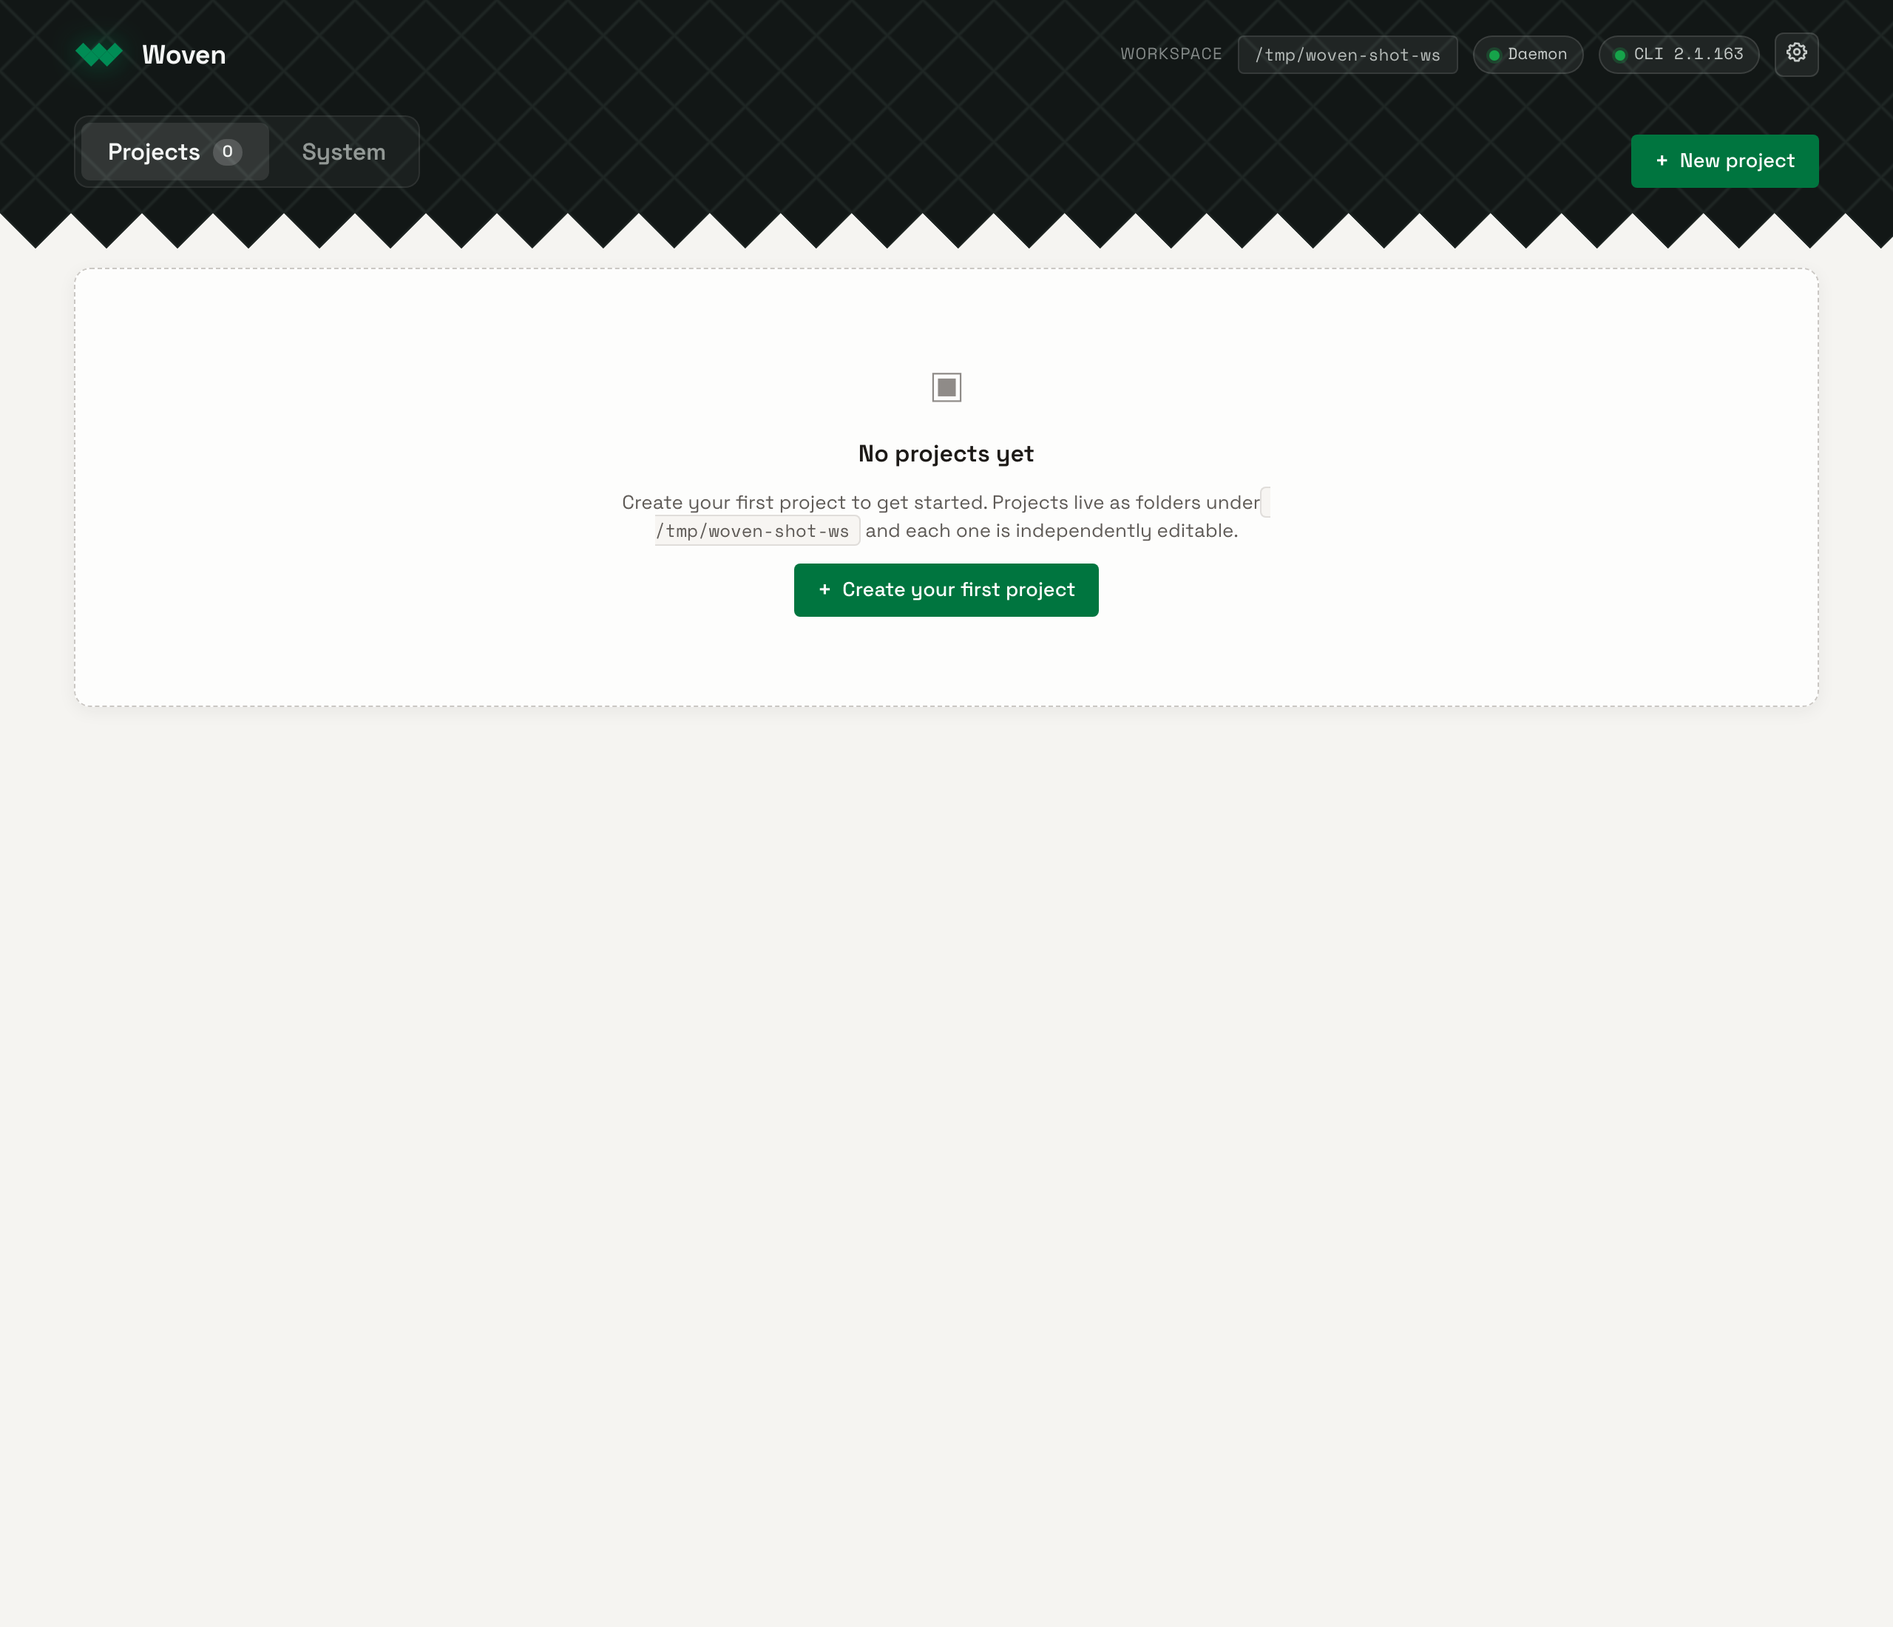
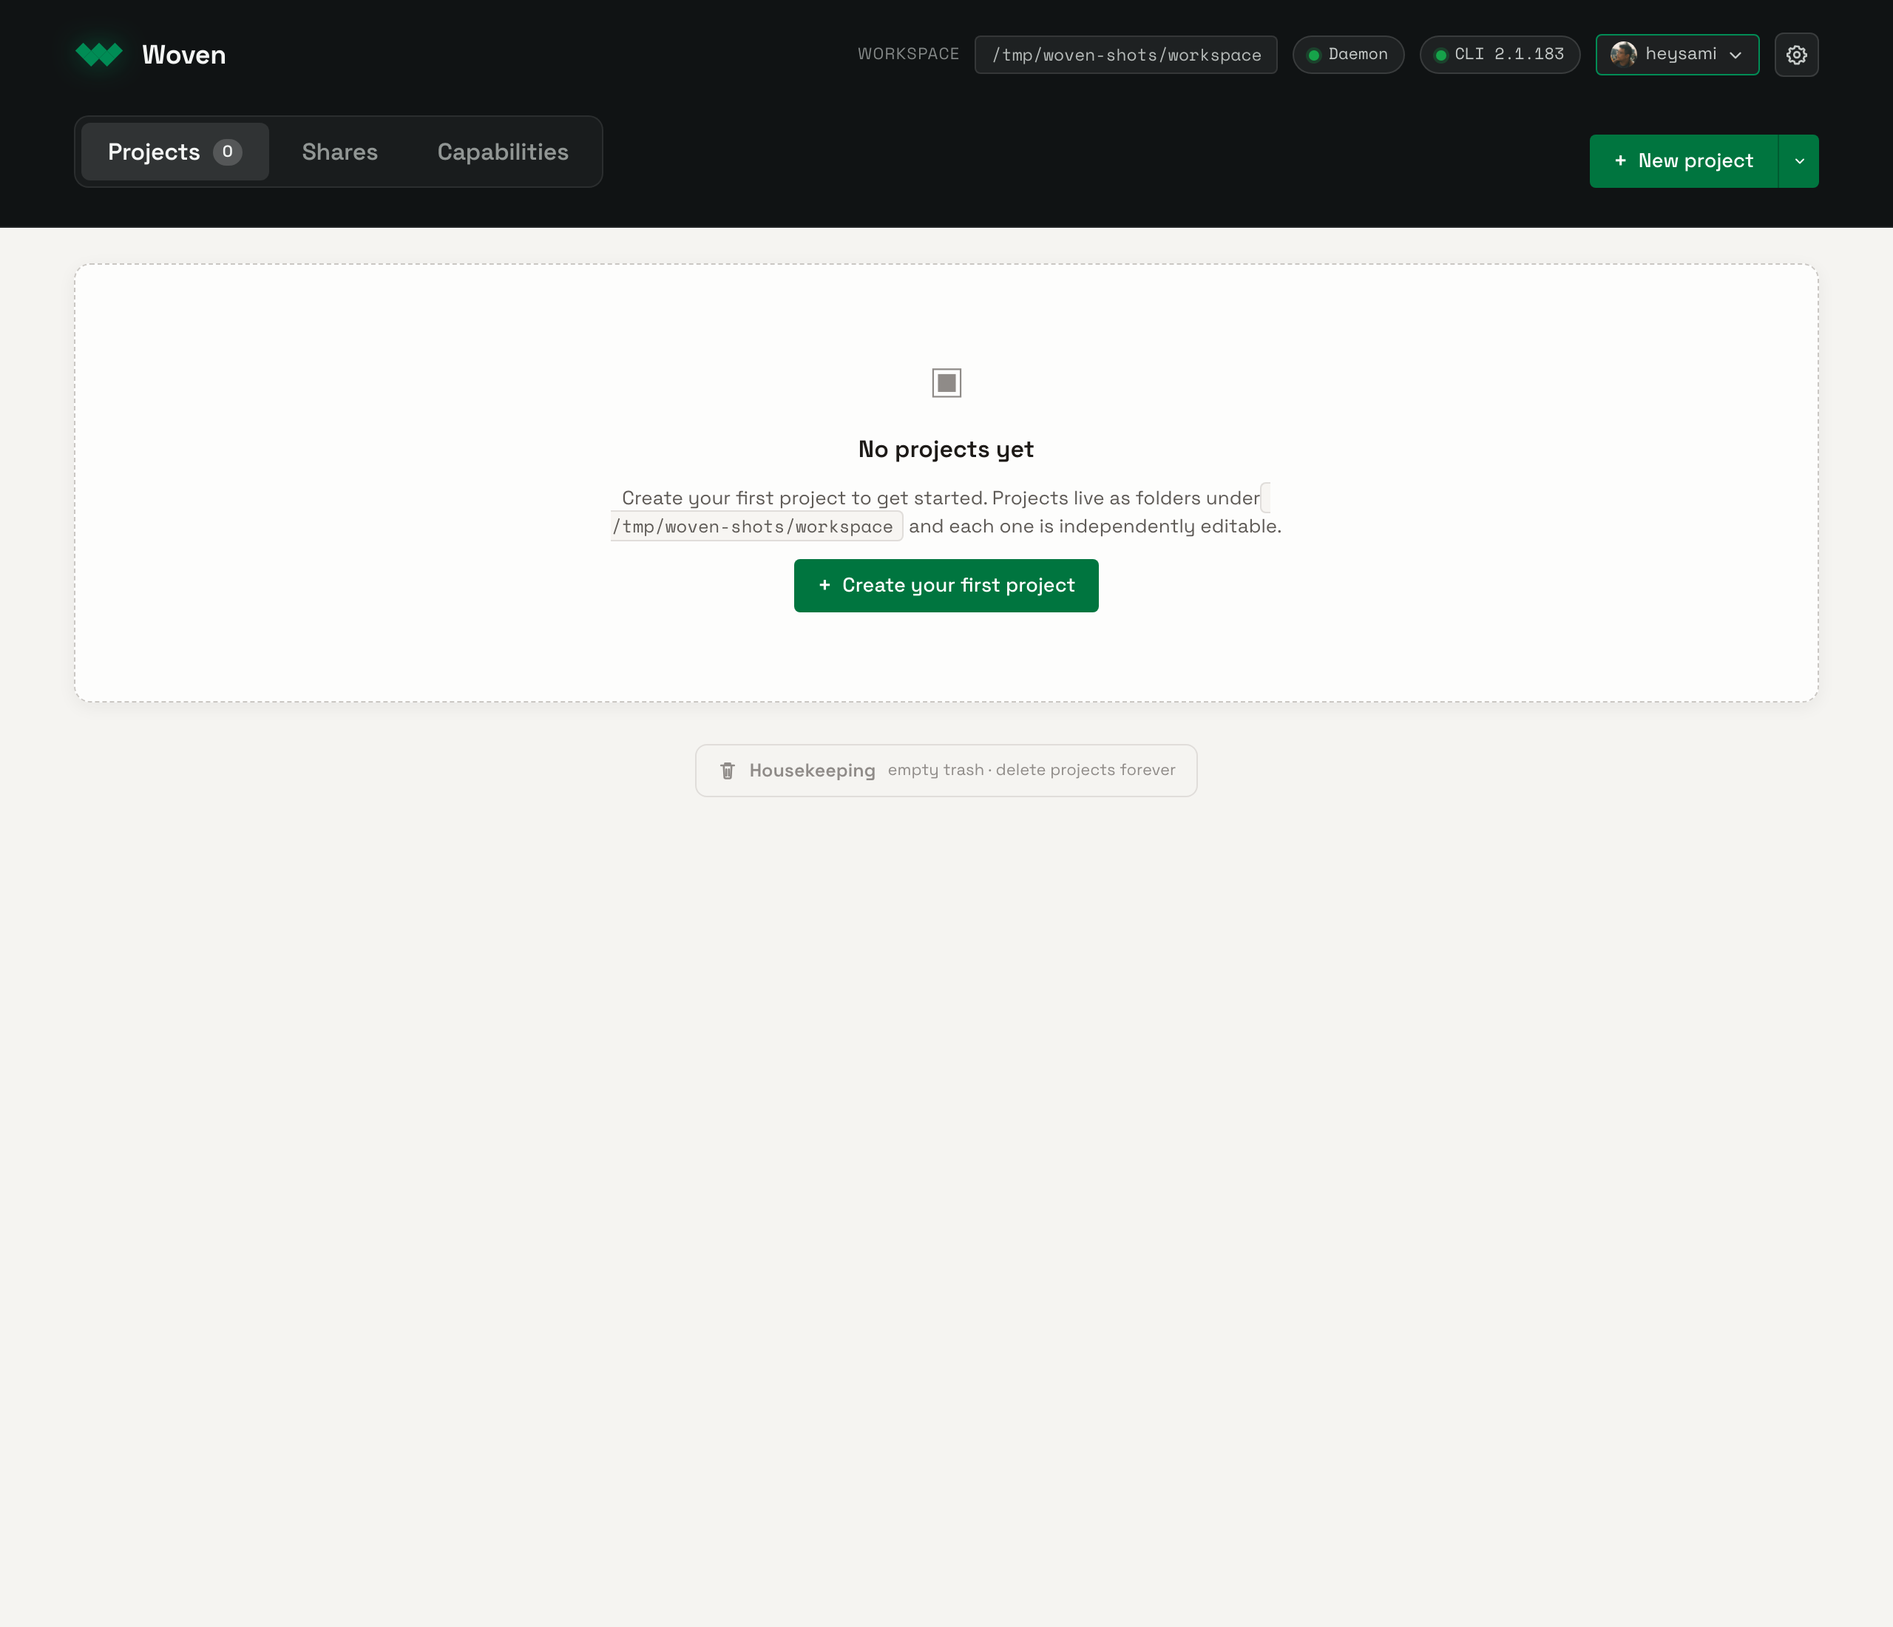
README: refresh onboarding + new-project docs for the 5-step setup wizard
Rewrote the onboarding sections to match the current UI: a single 5-step
pip wizard (Agent model, Asset keys, Orchestrators, Local skills, Done),
the CLI-required vs API-key-only distinction, the new Orchestrators step,
and the new-project modal (export folder + template design-system toggle).
Recaptured all onboarding/landing/new-project screenshots.

diff --git a/README.md b/README.md
@@ -21,12 +21,14 @@ This README walks through your first run end-to-end, from install to the Ghibli-
 1. [What you need before starting](#1-what-you-need-before-starting)
 2. [Install](#2-install)
 3. [Start the editor](#3-start-the-editor)
-4. [First-run onboarding: connect a model](#4-first-run-onboarding-connect-a-model)
-5. [Optional · add asset-provider keys (image · video · SVG)](#5-optional--add-asset-provider-keys-image--video--svg)
-6. [Required · install local skills (rembg)](#6-required--install-local-skills-rembg)
-7. [Create your first project](#7-create-your-first-project)
-8. [Open the workflow and send your first prompt](#8-open-the-workflow-and-send-your-first-prompt)
-9. [The final prototype](#9-the-final-prototype)
+4. [First-run onboarding: the 5-step setup wizard](#4-first-run-onboarding-the-5-step-setup-wizard)
+5. [Step 1 · connect a model](#5-step-1--connect-a-model)
+6. [Step 2 · add asset-provider keys (image · video · SVG)](#6-step-2--add-asset-provider-keys-image--video--svg)
+7. [Step 3 · review orchestrators](#7-step-3--review-orchestrators)
+8. [Step 4 · install local skills (rembg)](#8-step-4--install-local-skills-rembg)
+9. [Create your first project](#9-create-your-first-project)
+10. [Open the workflow and send your first prompt](#10-open-the-workflow-and-send-your-first-prompt)
+11. [The final prototype](#11-the-final-prototype)
 
 ---
 
@@ -38,7 +40,7 @@ You only need four things on your machine:
 | ---------------- | ---------------------------------------------------------------------------- | ------------------------------------- |
 | **Python 3.10+** | The editor daemon (`serve.py`) is pure Python with stdlib only.              | `python3 --version`                   |
 | **A modern browser** | Chrome, Edge, Safari, or Firefox (anything from the last ~2 years).      | (no command, just open it)            |
-| **One of:** Claude Code CLI · Codex CLI · an Anthropic / OpenAI API key | The editor needs at least one way to reach a text model so the agent can run workflows. You'll wire this up in [Step 4](#4-first-run-onboarding-connect-a-model). | `claude --version` / `codex --version` |
+| **One of:** Claude Code CLI · Codex CLI · an Anthropic / OpenAI API key | The editor needs at least one way to reach a text model so the agent can run workflows. **The CLI is the required path for agentic workflows** (a pasted API key only powers single-shot "simple prompt" nodes). You'll wire this up in [Step 1](#5-step-1--connect-a-model). | `claude --version` / `codex --version` |
 | **`rembg`**      | Background-removal step in the `raster-foreground` asset pipeline (characters / mascots / isolated subjects). One-click install from the onboarding card, or `pip3 install --user rembg`. First install pulls ~170 MB of model weights. | `python3 -c "import rembg; print(rembg.__version__)"` |
 
 You do **not** need Node, npm, Docker, or a build step. The editor ships as static HTML + a single Python file.
@@ -64,7 +66,7 @@ claude login    # (if you installed Claude Code)
 codex login     # (if you installed Codex)
 ```
 
-If you'd rather paste an API key instead of installing a CLI, skip the `npm install` step; you'll paste the key in the onboarding UI in [Step 4](#4-first-run-onboarding-connect-a-model).
+If you'd rather paste an API key instead of installing a CLI, skip the `npm install` step; you'll paste the key in the onboarding UI in [Step 1](#5-step-1--connect-a-model). Note that a key alone runs **simple prompt** nodes only - agentic workflows (node runs, chat, orchestrators) still need a CLI.
 
 ---
 
@@ -90,31 +92,45 @@ TH_WORKSPACE_DIR="$HOME/my-prototypes" python3 editor/serve.py
 
 ---
 
-## 4. First-run onboarding: connect a model
+## 4. First-run onboarding: the 5-step setup wizard
 
-On the very first launch, the **Projects** page shows a setup card. The top-right pill reads **NO MODEL CONFIGURED** in red. That's your cue that nothing will run until you wire up one connection.
+On the very first launch, the **Projects** page shows a setup card. The top-right pill reads **No model configured** in red - your cue that nothing will run until you wire up a connection. While anything required is still missing, the **+ New project** button stays disabled.
 
-![Onboarding · Step 1 · required agent model](docs/screenshots/01-onboarding-step1.png)
+The card is a single wizard with five numbered pips across the top:
 
-The card has two paths, both equivalent for the agent:
+**1 Agent model · 2 Asset keys · 3 Orchestrators · 4 Local skills · 5 Done**
 
-### 4a · Use a CLI
-
-Click **Install a CLI** to open the install-options dialog. The editor lists every supported binary with its install + login commands and live-detects whether each one is on your `PATH`. Once you've installed and signed in, click **I've installed it · refresh**. The dot flips to green and you're done.
-
-![Onboarding · Step 1 · CLI picker](docs/screenshots/02-onboarding-cli-picker.png)
-
-### 4b · Use an API key
-
-Click **Paste an API key** to drop in an Anthropic or OpenAI key. The key is stored locally at `~/.test-harness/media-config.json` (file mode `0600`, never sent anywhere except the provider's own API).
-
-Either path clears the **NO MODEL CONFIGURED** pill the instant it succeeds.
+Click any pip to jump to that step, or use **← Back / Next →** at the bottom. Only **Step 1 (a CLI)** and **Step 4 (rembg)** are required gates; Steps 2 and 3 are optional and never block. The next five sections walk through each step.
 
 ---
 
-## 5. Optional · add asset-provider keys (image · video · SVG)
+## 5. Step 1 · connect a model
 
-Step 1 only covers the **agent's text model**. To unlock image generation, video, vector SVG, audio, etc., add the relevant provider keys in **Step 2** of the onboarding card:
+![Onboarding · Step 1 · agent model](docs/screenshots/01-onboarding-step1.png)
+
+Step 1 wires up the model the agent runs on. There are two paths, and they are **not** equivalent:
+
+### 5a · Install a CLI (required for agents)
+
+A **Claude Code or Codex CLI on your `PATH` is the required backend.** The agent loop, file tools, and context compaction all live in the CLI harness, so node runs, chat, and orchestrators only work once a CLI is connected.
+
+Click **Install a CLI** to open the **Install a model CLI** popup. It lists both supported binaries with copy-paste install + login commands:
+
+![Onboarding · Step 1 · install-a-CLI popup](docs/screenshots/02-onboarding-cli-picker.png)
+
+Run the commands, then click **I've installed it · refresh** (or **I've already set one up · refresh** on the step itself). The status dot flips to green.
+
+### 5b · Paste an API key (simple prompts only)
+
+Click **Paste an API key** to drop in an Anthropic or OpenAI key via Settings. The key is stored locally at `~/.test-harness/media-config.json` (file mode `0600`, never sent anywhere except the provider's own API).
+
+A key on its own runs **single-shot "simple prompt" nodes** only - it does **not** enable agentic workflows. If you finish onboarding on a key alone, the top-right pill turns amber and reads **Agents disabled - no CLI** as a standing nudge to install one.
+
+---
+
+## 6. Step 2 · add asset-provider keys (image · video · SVG)
+
+Step 1 only covers the **agent's text model**. To unlock image generation, video, vector SVG, audio, etc., add the relevant provider keys in **Step 2**:
 
 ![Onboarding · Step 2 · asset providers](docs/screenshots/03-onboarding-asset-providers.png)
 
@@ -131,11 +147,21 @@ These are **optional**. Projects can still be created without them; you just won
 
 ---
 
-## 6. Required · install local skills (rembg)
+## 7. Step 3 · review orchestrators
 
-The wizard's **Step 3 · Local skills** lists Python packages the daemon will install into your user site (`pip install --user`). **`rembg` is the one required entry**: it's the background-removal step in the `raster-foreground` asset pipeline (every character, mascot, or isolated subject runs through it on the way to the canvas). Skip it and foreground asset generation falls over at the cutout stage.
+**Step 3** is a new, optional review step. Orchestrators dispatch whole families of subagents for richer artefacts (photography, illustration, simulations, 3D scenes, motion studios, and so on). Each row has a toggle, so you can turn off any family you don't want auto-dispatched - you can still invoke them by name later.
 
-![Onboarding · Step 3 · Local skills (rembg)](docs/screenshots/03b-onboarding-local-skills.png)
+![Onboarding · Step 3 · orchestrators](docs/screenshots/03c-onboarding-orchestrators.png)
+
+Rows whose pipeline depends on a key you haven't set in Step 2 are shown as **limited** with a short note about what's missing. Nothing here blocks project creation; if in doubt, leave the defaults and click **Next →**.
+
+---
+
+## 8. Step 4 · install local skills (rembg)
+
+The wizard's **Step 4 · Local skills** lists Python packages the daemon will install into your user site (`pip install --user`). **`rembg` is the one required entry**: it's the background-removal step in the `raster-foreground` asset pipeline (every character, mascot, or isolated subject runs through it on the way to the canvas). Skip it and foreground asset generation falls over at the cutout stage.
+
+![Onboarding · Step 4 · Local skills (rembg)](docs/screenshots/03b-onboarding-local-skills.png)
 
 Click **Install rembg** and give it a minute. First install pulls ~170 MB of ONNX model weights.
 
@@ -147,23 +173,33 @@ pip3 install --user rembg
 
 Optional packages (for `particle-gl`, `3d`, etc.) can wait. Install them from the gear icon → Settings when the matching pipeline first asks for them.
 
+Once the required steps are satisfied, **Step 5 · Done** confirms you're set (**"All set!"** when a CLI is connected, or **"Continue without agents"** if you finished on a key alone). Dismiss the card and the **+ New project** button lights up.
+
 ---
 
-## 7. Create your first project
+## 9. Create your first project
 
-Once a model is configured, the top-right warning chip disappears, the daemon + CLI chips both go green, and the **+ New project** button lights up. The header now carries two tabs - **Projects** (your gallery) and **System** (a bundled reference for the orchestrators, skills, subagents, and node kinds the editor ships with) - reachable from anywhere on the landing.
+Once a model is configured and rembg is installed, the top-right warning pill disappears, the daemon + CLI chips both go green, and the **+ New project** button lights up. The header carries tabs for **Projects** (your gallery), **Shares**, and **Capabilities** (a bundled reference for the orchestrators, skills, subagents, and node kinds the editor ships with), reachable from anywhere on the landing.
 
 ![Projects landing · model configured, + New project enabled](docs/screenshots/04-projects-landing.png)
 
-Click **+ New project** (or **+ Create your first project** in the empty state). A single-field modal opens:
+Click **+ New project** (or **+ Create your first project** in the empty state - the caret next to it also offers **From GitHub…** to clone an existing repo). The new-project modal opens:
 
-![New project modal · name only](docs/screenshots/05-new-project-wizard.png)
+![New project modal](docs/screenshots/05-new-project-wizard.png)
 
-Type a folder-safe id (alphanumeric + `.` `_` `-`) and click **+ Create**. That's it - no scope picker, no multi-step wizard. The earlier "Blank / Quick designs / Design system / PRD only / Full guided / Custom" branching was removed; every fresh project lands on a clean workflow canvas and you tell the agent what you want from chat. Need one of the old guided runs? Just ask the agent in plain English on the next screen ("brainstorm three design directions", "write a PRD first", "do the full guided flow", …) and the orchestrator skill picks the right stages.
+It has three things on it:
+
+- **Project name** - type a folder-safe id (alphanumeric + `.` `_` `-`); the modal echoes the slug it will use.
+- **Export folder** (optional) - where per-asset Export (the ⤓ on a selected node) drops bundles. On macOS a **Pick…** button opens Finder; you can also change this later from the **Exports** button in the workflow toolbar.
+- **Start from the template design system** (toggle, off by default) - seed a tokenized component library you can recolour, round, and retype.
+
+With the toggle **off**, click **+ Create** and you land straight on a clean workflow canvas - no scope picker, no multi-step wizard. The earlier "Blank / Quick designs / Design system / PRD only / Full guided / Custom" branching was removed; every fresh project starts blank and you tell the agent what you want from chat. Need one of the old guided runs? Just ask the agent in plain English on the next screen ("brainstorm three design directions", "write a PRD first", "do the full guided flow", …) and the orchestrator skill picks the right stages.
+
+With the toggle **on**, the button reads **Customize →** and advances to a wider **design-system customizer** step - a live preview where you tune colour, roundness, type, and spacing before the project is created with that tokenized DS baked in.
 
 ---
 
-## 8. Open the workflow and send your first prompt
+## 10. Open the workflow and send your first prompt
 
 The editor drops you into **workflow mode**. The left sidebar is the **Library** of node types (prompt nodes, asset generators, composition tools…). In the middle of the empty canvas, the editor shows a **"Your workflow is empty"** card with a composer right where you need it. No menus to open, no drawers to expand.
 
@@ -179,7 +215,7 @@ Press **⌘/Ctrl + Enter** (or click **Send**) and the agent gets to work, gener
 
 ---
 
-## 9. The final prototype
+## 11. The final prototype
 
 After the agent finishes the run, the workflow canvas fills out with every step that produced the prototype: a column of **Prompt** nodes (one per illustrated subject: Totoro himself, soot sprites, Chibi-Totoro, the Catbus…), each feeding a **Generate image** node, then a **Remove background** node that pipes the cleaned PNG into the final page rendering on the right. The chat drawer streams the agent's tool calls live (Read / Write / Bash) as it scaffolds files into `source/`. The right-most frame is the live phone-mockup of the Ghibli-themed Totoro feeder app, sitting inside the canvas alongside the assets that built it.
 
@@ -208,7 +244,7 @@ Bottom-tab navigation, the **Mori** wordmark, and the **Soft rain** weather chip
 | **CLI missing** chip is amber                        | `which claude`. If empty, run `npm install -g @anthropic-ai/claude-code` then `claude login`.          |
 | **Daemon down** chip is red                          | The Python server crashed or was stopped. Re-run `python3 editor/serve.py` from the repo root.         |
 | Port 5731 already in use                             | Set a different port: `EDITOR_PORT=5740 python3 editor/serve.py`.                                      |
-| Image / video / SVG nodes fail with "no API key"     | Open **Settings (gear)** and add the relevant provider key (see [Step 5](#5-optional--add-asset-provider-keys-image--video--svg)). |
+| Image / video / SVG nodes fail with "no API key"     | Open **Settings (gear)** and add the relevant provider key (see [Step 2](#6-step-2--add-asset-provider-keys-image--video--svg)). |
 
 ---
 
